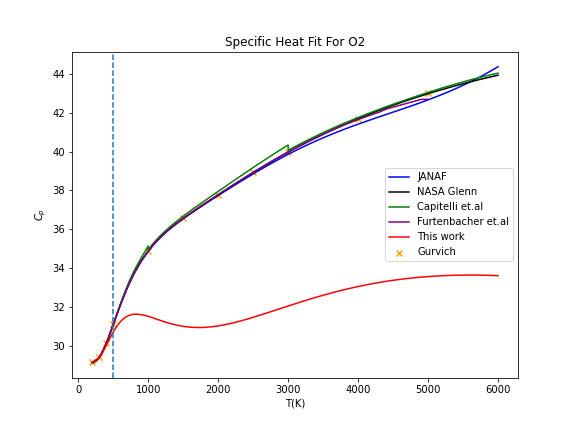
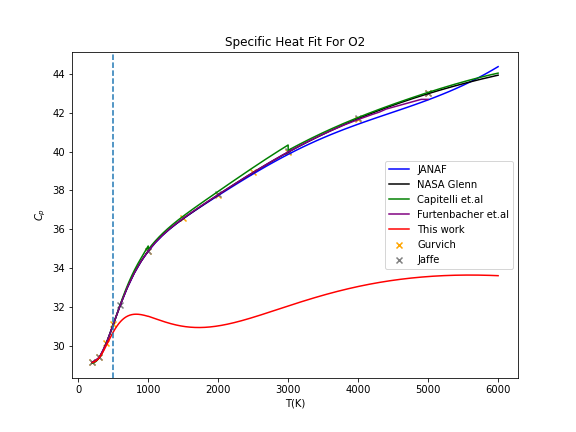
Add N2,O2 and NO data from Jaffe

Changed region(s): [[0.6562, 0.3611, 0.9062, 0.6319], [0.1562, 0.8125, 0.1875, 0.8426]]

diff --git a/Cp.py b/Cp.py
@@ -556,7 +556,14 @@ def compare_and_plot_Cp(Cp_dict,Tmax_dict,Cp_JANAF,coe_Capitelli,coe_nasa,coe_Bu
             plt.plot(T_Furtenbacher,Cp_Furtenbacher,color='purple',label="Furtenbacher et.al")
             T_Gurvich,Cp_Gurvich=np.loadtxt("Other_Cp/O2_Gurvich.txt",usecols=(0,1),unpack=True)
             plt.scatter(T_Gurvich,Cp_Gurvich,color="orange",marker="x",label="Gurvich")
-
+            T_Jaffe,Cp_Jaffe=np.loadtxt("Other_Cp/O2_Jaffe.txt",usecols=(0,1),unpack=True)
+            plt.scatter(T_Jaffe,Cp_Jaffe,color="gray",marker="x",label="Jaffe")
+        if species=='N2':
+            T_Jaffe,Cp_Jaffe=np.loadtxt("Other_Cp/N2_Jaffe.txt",usecols=(0,1),unpack=True)
+            plt.scatter(T_Jaffe,Cp_Jaffe,color="gray",marker="x",label="Jaffe")
+        if species=='NO':
+            T_Jaffe,Cp_Jaffe=np.loadtxt("Other_Cp/NO_Jaffe.txt",usecols=(0,1),unpack=True)
+            plt.scatter(T_Jaffe,Cp_Jaffe,color="gray",marker="x",label="Jaffe")
         if species=='H2O2':
             T_Chao,Cp_Chao=np.loadtxt("Other_Cp/H2O2_Chao.txt",usecols=(0,1),unpack=True)
             plt.plot(T_Chao,Cp_Chao,color="orange",label="Chao et.al")
